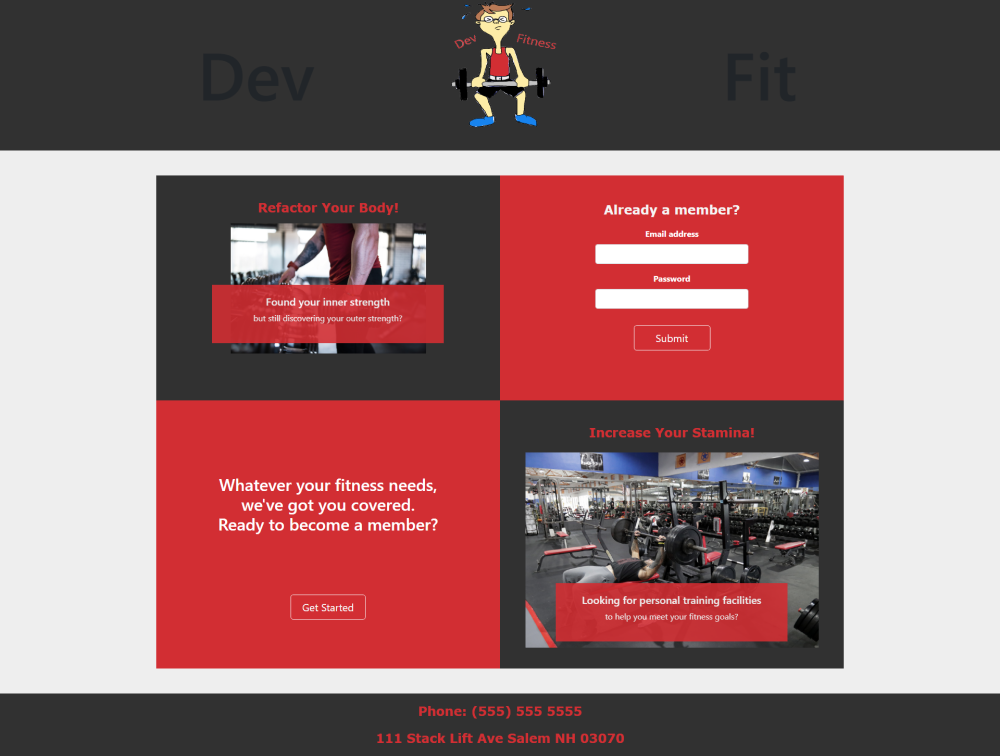
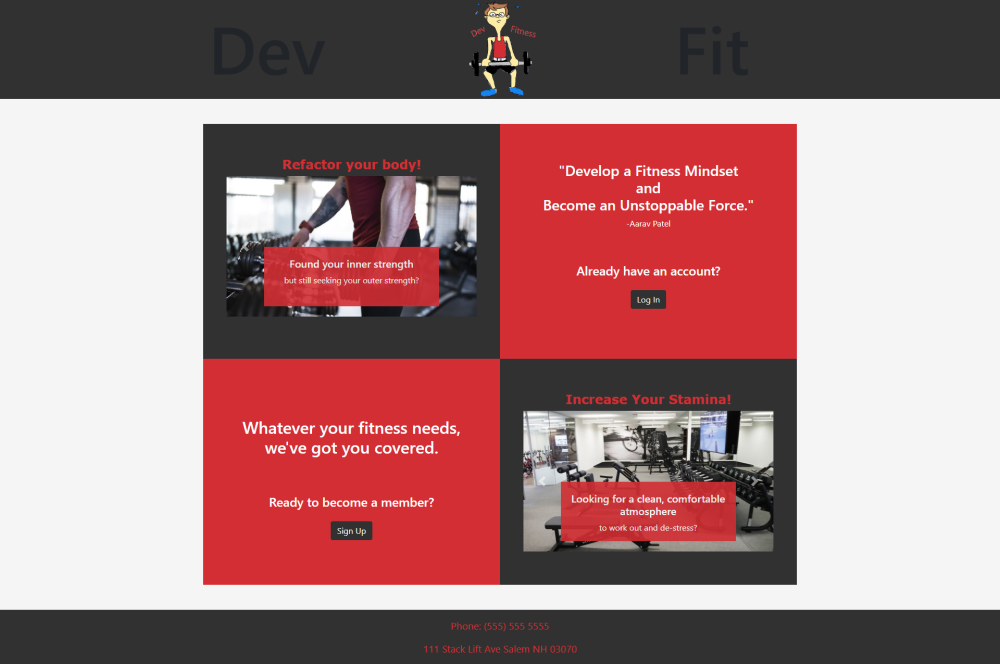
updated screenshots, readme

Changed region(s): [[0.0, 0.0, 1.0, 0.9036], [0.372, 0.9337, 0.62, 0.994], [0.279, 0.753, 0.434, 0.8133]]

diff --git a/client/src/components/storePageComponents/StoreItem.js b/client/src/components/storePageComponents/StoreItem.js
@@ -33,7 +33,9 @@ function StoreItem(props) {
       </Card.Body>
       <ListGroup className="list-group-flush">
         <ListGroupItem>${el.price}</ListGroupItem>
-        <ListGroupItem>Qty: {el.quantity - selectedQuantity}</ListGroupItem>
+        <ListGroupItem>
+          Qty In Stock: {el.quantity - selectedQuantity}
+        </ListGroupItem>
       </ListGroup>
       <Card.Body>
         <span>

diff --git a/client/README.md b/client/README.md
@@ -2,55 +2,66 @@
 
 ## Description
 
-This is a gym tracker app which allows clients to create accounts, log in with existing accounts, see trainer information, and view and join classes. It also allows trainers to add or remove their own classes. Managers on this app are able to view a list of trainers employed by the gym, pull up an individual trainer's information, terminate a trainer's employment by removing that trainer from the database, or hire a new trainer by adding his/her information into the database. A manager can also view all classes available at the gym for the week, view class rosters, and add/remove members from class rosters.
+This is a gym tracker app which allows clients to create accounts, log in with existing accounts, see trainer information, view and join classes, and shop the Dev Fit store. It also allows trainers to add or remove their own classes. Managers on this app are able to view a list of trainers employed by the gym, pull up an individual trainer's information, terminate a trainer's employment by removing that trainer from the database, or hire a new trainer by adding his/her information into the database. A manager can also view all classes available at the gym for the week, view class rosters, and add/remove members from class rosters.
 
-## Screenshots
+## Deployed App
 
-![HomePage](./public/assets/images/screenshots/homePage.png)
-
-![RegistrationPage](./public/assets/images/screenshots/registrationPage.png)
-
-![ClientSchedulePage](./public/assets/images/screenshots/clientSchedulePage.png)
-
-![TrainerPage](./public/assets/images/screenshots/trainerPage.png)
-
-![ManagerPageView](./public/assets/images/screenshots/managerPageView.png)
-
-![ManagerPageHire](./public/assets/images/screenshots/managerPageHire.png)
-
-![ManagerPageAdd](./public/assets/images/screenshots/managerPageAdd.png)
+[Dev Fit App](https://dev-fit-gym-app.herokuapp.com/employee)
 
 ## Table of Contents
 
+- [Screenshots](#Screenshots)
 - [Technologies](#Technologies)
 - [Usage](#Usage)
 - [Installation](#Installation)
 - [Feedback](#Feedback)
-- [Challenges](#Challenges)
 - [Future Development](#Future_Development)
+
+## Screenshots
+
+![HomePage](./src/images/screenshots/homePage.png)
+
+![RegistrationPage](./src/images/screenshots/registrationPage.png)
+
+![MemberPage](./src/images/screenshots/memberPage.png)
+
+![TrainerPage](./src/images/screenshots/trainerPage.png)
+
+![ManagerPage](./src/images/screenshots/managerPage.png)
+
+![AddToRoster](./src/images/screenshots/addToRoster.png)
+
+![TrainerInfo](./src/images/screenshots/trainerInfo.png)
+
+![StorePage](./src/images/screenshots/storePage.png)
+
+[(Back to Top)](#Description)
 
 ## Technologies
 
+- React
 - node.js
-- mysql
-- sequelize
-- body-parser
-- dotenv
+- Auth0
 - express
 - jest
-- md5
-- mysql2
+- AtlasDB
+- MongoDb
+- Mongoose
 - nodemon
-- server
+- date-fns
+- Heroku
+- react-bootstrap
+- PayPal
 
 ## Usage
 
-1. Clients
+1. Members
    - Register for account from home page.
    - Log in with registered account from home page.
    - Join or drop classes.
    - View classes they've registered for.
    - View Gym's trainers.
+   - Shop at the Member Store.
 2. Trainers
    - Log in from home page.
    - Add Classes/classtimes for the week to be taught by that trainer.
@@ -64,61 +75,29 @@ This is a gym tracker app which allows clients to create accounts, log in with e
    - View all classes being offered by the gym for the week.
    - View class rosters.
    - Add members to roster or delete members from roster for each class (in case client needs help with this process for some reason).
+   - View Store Order History.
 
 ## Installation
 
-- Install [node.js](https://nodejs.org/en/download/)
-- Open server.js in node.js integrated terminal, and install dependencies with `npm install`
+- Deployed on Heroku
 
 ## Feedback
 
 Contact us with any feedback or questions through GitHub or by email.
 
-- [Dustin](https://github.com/DustinErwin) (Dustin's commits are registered as NewWorldCoder603.)
+- [Dustin](https://github.com/DustinErwin)
 - [Ethan](https://github.com/Ewager1)
 - [Jesal](https://github.com/JesalDM)
 - [Sarah](https://github.com/smanter82/)
 
-## Challenges
-
-- Keeping project scope small enough to meet the deadline
-- Organizing a large amount of API's.
-- Figuring out how MySQL joins would work with Sequelize
-- Rotating calendar logic based on current date.
-
 ## Future_Development
 
-- Expanding the rotating week to be a full calendar.
-- Adding a router controller
-- Adding user authorization
-- Improved user error handling
-- Membership pricing and records
+- Track sales data (Ex: How many people have been signed up, how many people have been called, how many calls have resulted in tours/memberships, etc.)
+- Track membership costs, gym’s income, employee costs (salaries, etc.)
+- Contact form
+- Upgrade, Downgrade, Cancel Membership
+- Trial Membership coupon codes
+- Manager can change class times, add / delete class
+- Trainer can change class times
 
-## Copyrights/Acknowledgements
-Copyright © 2011-2015, Paul Vorbach.
-Copyright © 2009, Jeff Mott.
-
-All rights reserved.
-
-Redistribution and use in source and binary forms, with or without modification,
-are permitted provided that the following conditions are met:
-
-* Redistributions of source code must retain the above copyright notice, this
-  list of conditions and the following disclaimer.
-* Redistributions in binary form must reproduce the above copyright notice, this
-  list of conditions and the following disclaimer in the documentation and/or
-  other materials provided with the distribution.
-* Neither the name Crypto-JS nor the names of its contributors may be used to
-  endorse or promote products derived from this software without specific prior
-  written permission.
-
-THIS SOFTWARE IS PROVIDED BY THE COPYRIGHT HOLDERS AND CONTRIBUTORS "AS IS" AND
-ANY EXPRESS OR IMPLIED WARRANTIES, INCLUDING, BUT NOT LIMITED TO, THE IMPLIED
-WARRANTIES OF MERCHANTABILITY AND FITNESS FOR A PARTICULAR PURPOSE ARE
-DISCLAIMED. IN NO EVENT SHALL THE COPYRIGHT HOLDER OR CONTRIBUTORS BE LIABLE FOR
-ANY DIRECT, INDIRECT, INCIDENTAL, SPECIAL, EXEMPLARY, OR CONSEQUENTIAL DAMAGES
-(INCLUDING, BUT NOT LIMITED TO, PROCUREMENT OF SUBSTITUTE GOODS OR SERVICES;
-LOSS OF USE, DATA, OR PROFITS; OR BUSINESS INTERRUPTION) HOWEVER CAUSED AND ON
-ANY THEORY OF LIABILITY, WHETHER IN CONTRACT, STRICT LIABILITY, OR TORT
-(INCLUDING NEGLIGENCE OR OTHERWISE) ARISING IN ANY WAY OUT OF THE USE OF THIS
-SOFTWARE, EVEN IF ADVISED OF THE POSSIBILITY OF SUCH DAMAGE.
+[(Back to Top)](#Description)
